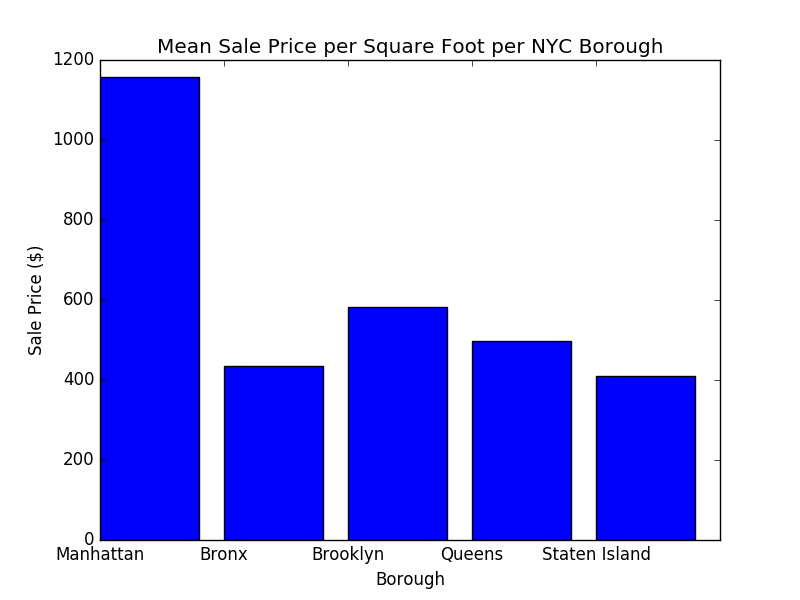
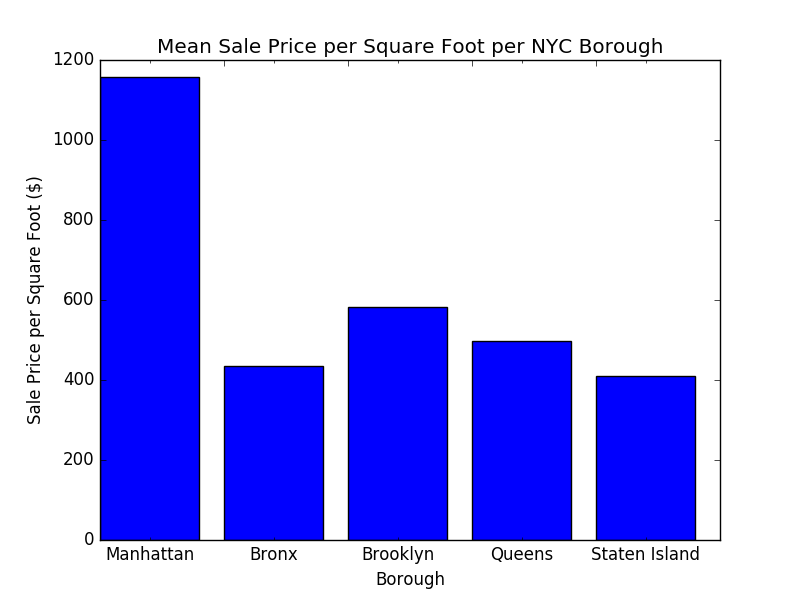
feat: 2D grid search

Changed region(s): [[0.0625, 0.9, 0.875, 0.96], [0.0312, 0.3, 0.0625, 0.72]]

diff --git a/final_data_exploration.py b/final_data_exploration.py
@@ -13,58 +13,13 @@ import parse_sales_data
 from sklearn.utils import shuffle
 from scipy.interpolate import griddata
 
-def plotMeanSalePrice(df):
-    """
-    Plots the mean sale price per NYC burough
-
-    Parameters:
-    -----------
-    DataFrame with columns labeled 'SALE PRICE' and 'BUROUGH"
-
-    Returns:
-    --------
-    N/A
-    """
-    # Re-assign trimmed data to relevant columns
-    targets = df['SALE PRICE'].values
-    targets = pd.to_numeric(targets)
-    x = df['BOROUGH'].values
-    N = x.shape[0]
-
-    # Find the mean sale price of each borough
-    means = np.zeros((5,))
-    counts = np.zeros((5,))
-
-    for bur in range(5):
-        m_count = 0
-        c_count = 0
-        for i in range(N):
-            if x[i] == bur + 1:
-                m_count += targets[i]
-                c_count += 1
-        means[bur] = m_count / c_count
-        counts[bur] = c_count
-    
-    for mean in np.nditer(means):
-        mean = format(mean, ',')
-    borough = ['Manhattan', 'Bronx', 'Brooklyn', 'Queens', 'Staten Island']
-    x = np.arange(len(borough))
-
-    plt.bar(x, means)
-    plt.title('Mean Sale Price ($) per NYC Burough')
-    plt.ylabel('Sale Price ($)')
-    plt.xlabel('Burough')
-    plt.xticks(x, borough)
-
-    plt.show()
-
 def plotMeanSalePricePerSqFoot(df):
     """
     Plots the mean sale price per square foot per NYC burough
 
     Parameters:
     -----------
-    DataFrame with columns labeled 'SALE PRICE', 'GROSS SQ FEET', and 'burough'
+    DataFrame with columns labeled 'SALE PRICE', 'GROSS SQUARE FEET', and 'burough'
 
     Returns:
     --------
@@ -73,39 +28,39 @@ def plotMeanSalePricePerSqFoot(df):
     # Re-assign trimmed data to relevant columns
     gsf = df['GROSS SQUARE FEET'].values
     sales = df['SALE PRICE'].values
-    t = np.divide(sales, gsf)
+    t = np.divide(sales, gsf) # targets
+    x = df['burough'].values # parameters
 
-    x = df['burough'].values
+    # Initialize needed loop variables
     N = x.shape[0]
-
-    # Find the mean sale price of each borough
     borough = ['Manhattan', 'Bronx', 'Brooklyn', 'Queens', 'Staten Island']
     BOROUGH = ['MANHATTAN', 'BRONX', 'BROOKLYN', 'QUEENS', 'STATEN ISLAND']
     means = np.zeros((5,))
     counts = np.zeros((5,))
-
+    
+    # Find the mean sale price of each borough
     for bur in range(5):
         m_count = 0
         c_count = 0
-        print('in loop no', bur)
         for i in range(N):
-            # if x[i] == bur + 1:
             if x[i] == BOROUGH[bur]:
                 m_count += t[i]
                 c_count += 1
         means[bur] = m_count / c_count
         counts[bur] = c_count
     
-    for mean in np.nditer(means):
-        mean = format(mean, ',')
-    borough = ['Manhattan', 'Bronx', 'Brooklyn', 'Queens', 'Staten Island']
+    # Plot as a bar graph
     x = np.arange(len(borough))
 
-    plt.bar(x, means)
-    plt.title('Mean Sale Price per Square Foot per NYC Borough')
-    plt.ylabel('Sale Price ($)')
-    plt.xlabel('Borough')
-    plt.xticks(x, borough)
+    fig, ax = plt.subplots()
+    ax.bar(x, means)
+    ax.set_title('Mean Sale Price per Square Foot per NYC Borough')
+    ax.set_ylabel('Sale Price per Square Foot ($)')
+    ax.set_xlabel('Borough')
+    # ax.xticks(x, borough, minor=True)
+    ax.set_xticklabels('')
+    ax.set_xticks([0.4, 1.4, 2.4, 3.4, 4.4], minor=True)
+    ax.set_xticklabels(borough, minor=True)
 
     plt.show()
 
@@ -148,17 +103,15 @@ def plotRegressionGaussianProcessGridSearch(df):
     N/A
     """
     df = shuffle(df)
-    N = 100 # training data
+    N = 100 # training data number
 
     x1 = df['longitude'].values[:N] # x
     x2 = df['latitude'].values[:N] # y
-
     x = np.vstack((x1, x2))
-
-    print('imported xy')
     gsf = df['GROSS SQUARE FEET'].values[:N]
     sales = df['SALE PRICE'].values[:N]
     t = np.divide(sales, gsf)
+    print('Successfully imported data')
 
     # Initialize plotting variables
     x_range = max(x1) - min(x1)
@@ -172,8 +125,6 @@ def plotRegressionGaussianProcessGridSearch(df):
     Z = np.zeros((N_points, N_points))
 
     ### parameter tuning grid search ###
-
-    
     mse_min = np.inf
 
     power = 10
@@ -204,7 +155,6 @@ def plotRegressionGaussianProcessGridSearch(df):
     # for theta_2 in np.nditer(thetas_2):
     # for theta_3 in np.nditer(thetas_3):
 
-    # Grid search ya heard
     for nu_0 in np.nditer(nus_0): 
         for nu_1 in np.nditer(nus_1):
             # print('Starting with beta =', beta)
@@ -235,7 +185,7 @@ def plotRegressionGaussianProcessGridSearch(df):
                 # print('param beta = {}. Inner loop iteration {} out of {}'.format(beta, n+1, N))
                 # print('param theta1 = {}. Inner loop iteration {} out of {}'.format(theta_0, n+1, N))
                 # print('param theta2 = {}. Inner loop iteration {} out of {}'.format(theta_2, n+1, N))
-                print('param theta3 = {}. Inner loop iteration {} out of {}'.format(theta_3, n+1, N))
+                print('param nu0 = {}, nu1 = {}. Inner loop iteration {} out of {}'.format(nu_0, nu_1, n+1, N))
                 for m in range(N):
                     k = np.zeros((N,))
                     for j in range(N):
@@ -250,12 +200,16 @@ def plotRegressionGaussianProcessGridSearch(df):
                 # best_beta = beta
                 # best_theta_0 = theta_0
                 # best_theta_2 = theta_2
-                best_theta_3 = theta_3
-                print('best theta3', best_theta_3)
+                # best_theta_3 = theta_3
+                # print('best theta3', best_theta_3)
+                best_nu_0 = nu_0
+                best_nu_1 = nu_1
 
             print('mse is', mse)
-    print('mse_min is', mse_min)
-
+    
+    
+    print('best_nu_0 is', best_nu_0)
+    print('best_nu_1 is', best_nu_1)
 
     # ### Run with hold out data ###
     # N2 = N + 100
@@ -264,14 +218,13 @@ def plotRegressionGaussianProcessGridSearch(df):
     # x2 = x2[N:N2]
     # t = t[N:N2]
 
-    print('best theta3', best_theta_3)
     best_beta = 0.00278
     best_theta_0 = 3.4
     best_theta_2 = 0.278
     best_theta_3 = 1e-5
     
     thetas = [best_theta_0, 0., best_theta_2, best_theta_3]
-    nus = [1., 1.]
+    nus = [best_nu_0, best_nu_1]
 
     # Construct the gram matrix per Eq. 6.54    
     K = np.zeros((N,N))
@@ -351,7 +304,7 @@ def plotRegressionGaussianProcess(df):
     ### parameter tuning grid search ###
     # beta = 0.00278 # from grid search
     # beta = 0.0000278 # scale too high
-    beta = 0.0001
+    beta = 0.00005
 
     # theta_0 from gid search = 3.4
     thetas = [3.4, 1., 0.278, 1.e-5]
@@ -538,12 +491,12 @@ def main():
     # # Run parser to save out new csv file
     # parse_sales_data.importAndCleanData(100000, 1, 300, 4000, 'data/nyc_sales_loc_53092_20191214.csv', False, 'GSF')
 
-    # This stuff has been tested and works!
+    # # This stuff has been tested and works!
     df_gsf = pd.read_csv('data/CLEAN_nyc_sales_loc_GSF_16015_20191216.csv')
     
-    # plotRegressionGaussianProcessGridSearch(df_gsf)
+    plotRegressionGaussianProcessGridSearch(df_gsf)
 
-    plotRegressionGaussianProcess(df_gsf)
+    # plotRegressionGaussianProcess(df_gsf)
 
     # plotRawContour(df_gsf)
     
